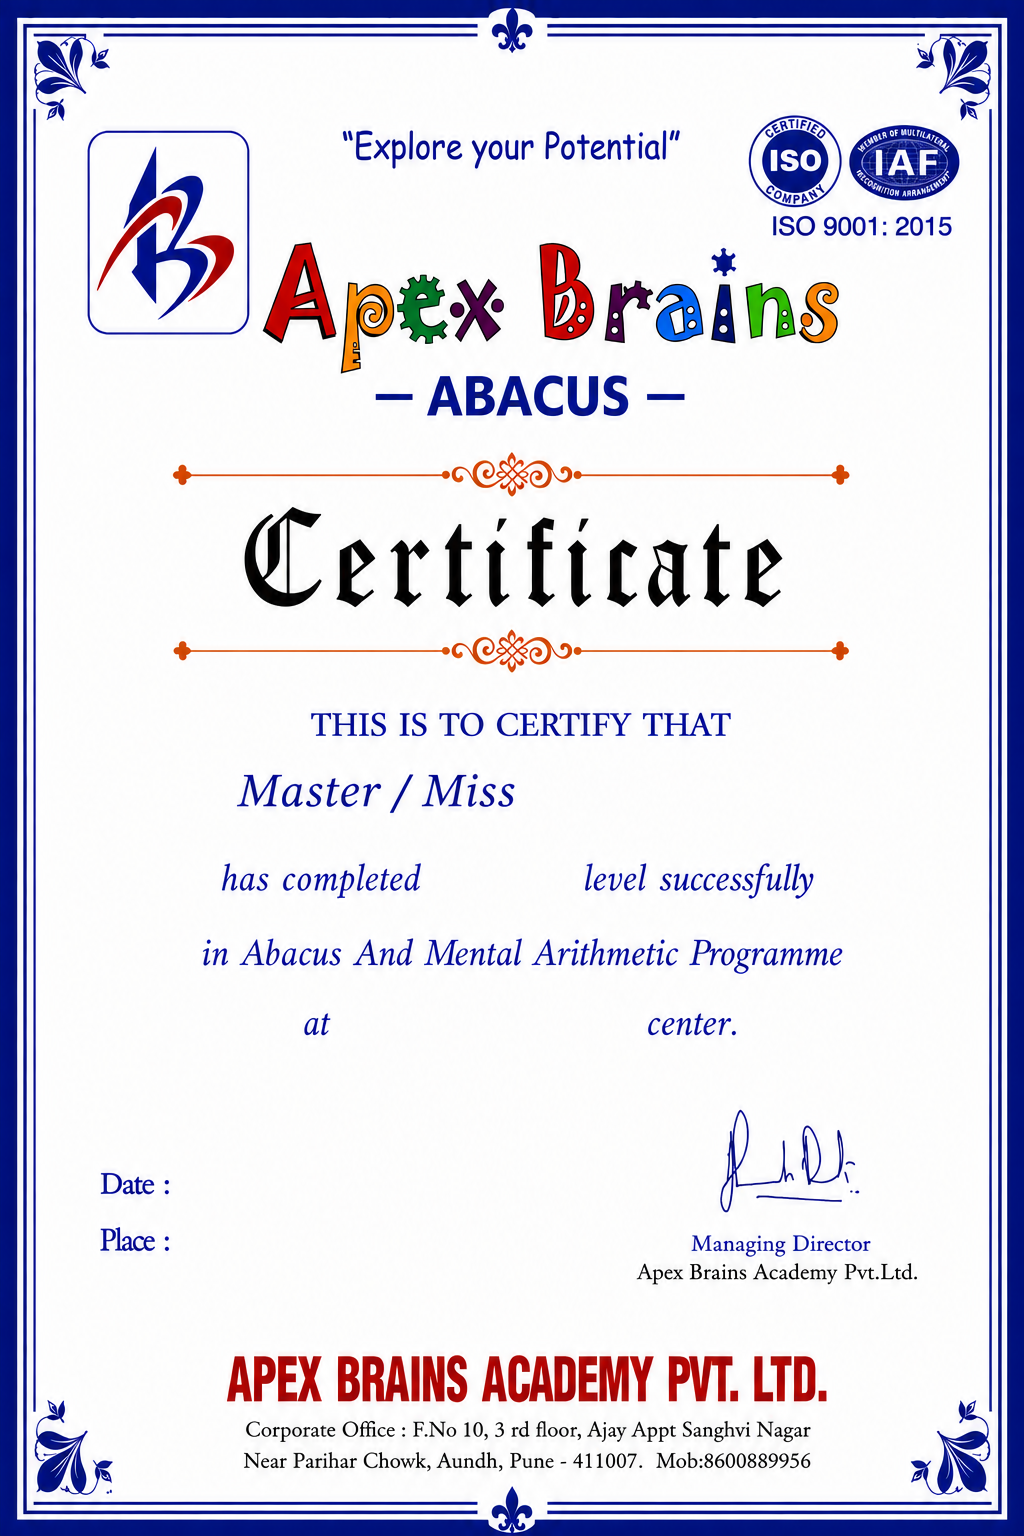
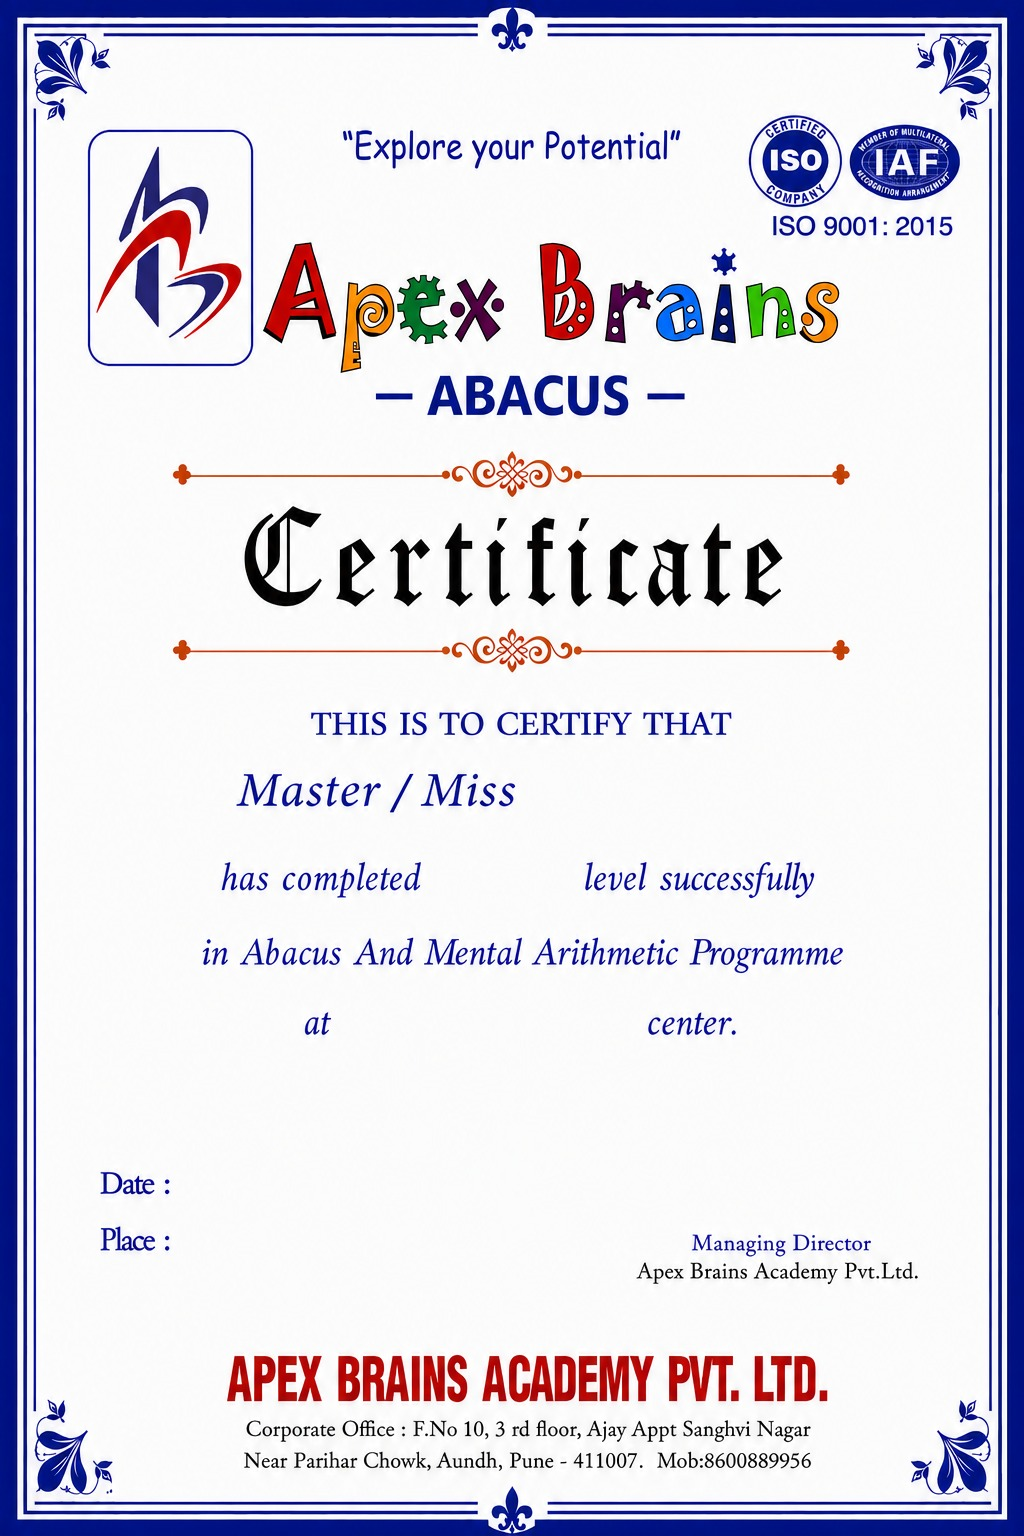
fix: certificate signature compositing, Place field alignment, name capitalization
- Signature is now composited per-render via GD (public/images/certificates/signature.png,
  transparency keyed from the client's new scanned signature) instead of baked into each
  background PNG, positioned to match where the old baked signature sat on all 4 templates.
- Level-Up and Participation certificates had their Place value baseline drifted from the
  artwork's own "Place :" label; re-measured and corrected (Date left untouched). Fixed a
  related mask-box overlap that was clipping "Managing Director" on Level-Up.
- Student name on certificates now has its first letter forced uppercase (ucfirst on the
  full name, not per-word) so lowercase entries render correctly while ALL-CAPS names
  are left as-is.

diff --git a/app/Services/CertificateImageComposer.php b/app/Services/CertificateImageComposer.php
@@ -18,7 +18,10 @@ class CertificateImageComposer
     {
         $type = $certificate->type;
 
-        $studentName   = $certificate->student?->full_name ?? '';
+        // Only the first character is forced to uppercase — the rest of the
+        // name is displayed exactly as stored (so "ARJUN PATIL" is untouched
+        // and "madhuri test test" becomes "Madhuri test test").
+        $studentName   = ucfirst($certificate->student?->full_name ?? '');
         $franchiseName = $certificate->franchise?->name ?? '';
         $levelName     = $certificate->level?->title ?? '';
         $placeVal      = $certificate->place ?: ($certificate->franchise?->city ?? '');
@@ -63,14 +66,23 @@ class CertificateImageComposer
                 ['box' => [60, 960, 994, 1055], 'text' => 'participating in the ' . $levelName . ' Online Competition', 'font' => 'italic', 'size' => 28, 'color' => $navyItalic, 'align' => 'center', 'baseline' => 1018],
                 // Date/Place values only — "Date :"/"Place :" labels stay baked into the artwork.
                 ['box' => [215, 1204, 690, 1240], 'pad' => 8, 'text' => $competitionDateVal, 'font' => 'italic', 'size' => 26, 'color' => $navyItalic, 'align' => 'left', 'baseline' => 1230],
-                ['box' => [215, 1244, 690, 1280], 'pad' => 8, 'text' => $placeVal, 'font' => 'italic', 'size' => 26, 'color' => $navyItalic, 'align' => 'left', 'baseline' => 1270],
+                // Place sits on its own baked "Place :" line further down than
+                // Date's — pixel-measured against the artwork's own label
+                // baseline (~1293), not the old Date-relative guess (~1270)
+                // that made the value float above its label.
+                ['box' => [215, 1265, 690, 1310], 'pad' => 8, 'text' => $placeVal, 'font' => 'italic', 'size' => 26, 'color' => $navyItalic, 'align' => 'left', 'baseline' => 1293],
             ],
             Certificate::TYPE_LEVEL_UP, Certificate::TYPE_LEVEL_COMPLETION => [
                 ['box' => [60, 745, 964, 815], 'text' => 'Master / Miss ' . $studentName, 'font' => 'italic', 'size' => 38, 'color' => $navyItalic, 'align' => 'center', 'baseline' => 800],
                 ['box' => [60, 838, 964, 903], 'text' => 'has completed ' . $levelName . ' level successfully', 'font' => 'italic', 'size' => 30, 'color' => $navyItalic, 'align' => 'center', 'baseline' => 888],
                 ['box' => [60, 985, 964, 1049], 'text' => 'at ' . $franchiseName . ' center.', 'font' => 'italic', 'size' => 28, 'color' => $navyItalic, 'align' => 'center', 'baseline' => 1033],
                 ['box' => [190, 1148, 700, 1198], 'pad' => 10, 'text' => $dateVal,  'font' => 'italic', 'size' => 26, 'color' => $navyItalic, 'align' => 'left', 'baseline' => 1183],
-                ['box' => [190, 1205, 700, 1255], 'pad' => 10, 'text' => $placeVal, 'font' => 'italic', 'size' => 26, 'color' => $navyItalic, 'align' => 'left', 'baseline' => 1240],
+                // Pixel-measured against the artwork's own "Place :" label
+                // baseline (~1249) — the old baseline (1240) rendered the
+                // value visibly above the label line. Right edge trimmed to
+                // 683 (was 700) — "Managing Director" starts at x≈692 on this
+                // artwork and the old wider box was masking its left stroke.
+                ['box' => [190, 1210, 683, 1268], 'pad' => 10, 'text' => $placeVal, 'font' => 'italic', 'size' => 26, 'color' => $navyItalic, 'align' => 'left', 'baseline' => 1249],
             ],
             // Champion / Winner: the static prefixes ("Master / Miss",
             // "studying at", "has been awarded", "for") stay baked into the
@@ -99,6 +111,64 @@ class CertificateImageComposer
             ],
             default => [],
         };
+    }
+
+    /**
+     * Target rectangle (native artwork pixel space) the Managing Director
+     * signature is drawn into — the same position previously occupied by the
+     * signature baked into each background PNG (pixel-measured against the
+     * 2026-08-17 artwork before it was replaced with a blank-signature
+     * version). Contain-fit + centered, so the signature's own aspect ratio
+     * is preserved rather than stretched.
+     */
+    protected function signatureBoxFor(string $type): array
+    {
+        return match ($type) {
+            Certificate::TYPE_LEVEL_UP, Certificate::TYPE_LEVEL_COMPLETION => [700, 1090, 880, 1215],
+            Certificate::TYPE_PARTICIPATION, Certificate::TYPE_COMPETITION => [730, 1175, 905, 1288],
+            Certificate::TYPE_CHAMPION => [745, 1160, 915, 1278],
+            Certificate::TYPE_WINNER => [760, 1105, 920, 1240],
+            default => [730, 1175, 905, 1288],
+        };
+    }
+
+    /**
+     * Composite the vendored signature image (a transparent PNG, pre-cropped
+     * to its own ink bounding box) onto the certificate, contain-fit within
+     * signatureBoxFor()'s rectangle.
+     */
+    protected function compositeSignature($im, Certificate $certificate): void
+    {
+        $sigPath = public_path('images/certificates/signature.png');
+        $sig = @imagecreatefrompng($sigPath);
+        if (! $sig) {
+            return;
+        }
+
+        [$x0, $y0, $x1, $y1] = $this->signatureBoxFor($certificate->type);
+        $boxW = $x1 - $x0;
+        $boxH = $y1 - $y0;
+
+        $sigW = imagesx($sig);
+        $sigH = imagesy($sig);
+        $scale = min($boxW / $sigW, $boxH / $sigH);
+        $destW = max(1, (int) round($sigW * $scale));
+        $destH = max(1, (int) round($sigH * $scale));
+        $destX = (int) round($x0 + ($boxW - $destW) / 2);
+        $destY = (int) round($y0 + ($boxH - $destH) / 2);
+
+        $resized = imagecreatetruecolor($destW, $destH);
+        imagealphablending($resized, false);
+        imagesavealpha($resized, true);
+        $transparent = imagecolorallocatealpha($resized, 0, 0, 0, 127);
+        imagefill($resized, 0, 0, $transparent);
+        imagecopyresampled($resized, $sig, 0, 0, 0, 0, $destW, $destH, $sigW, $sigH);
+
+        imagealphablending($im, true);
+        imagecopy($im, $resized, $destX, $destY, 0, 0, $destW, $destH);
+
+        imagedestroy($resized);
+        imagedestroy($sig);
     }
 
     protected function maskColorFor(string $type): array
@@ -207,6 +277,8 @@ class CertificateImageComposer
                 imagettftext($im, $trailing['size'], 0, (int) $trailingX, (int) $trailingBaselineY, $trailingColor, $trailingFont, $trailing['text']);
             }
         }
+
+        $this->compositeSignature($im, $certificate);
 
         ob_start();
         imagepng($im);
